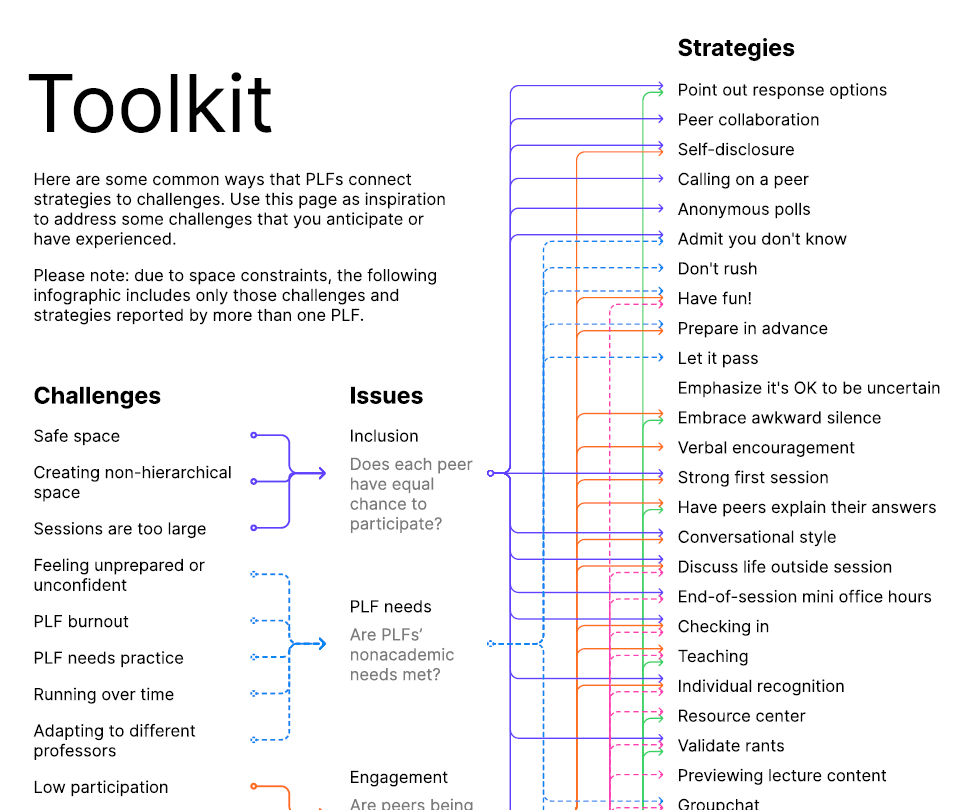
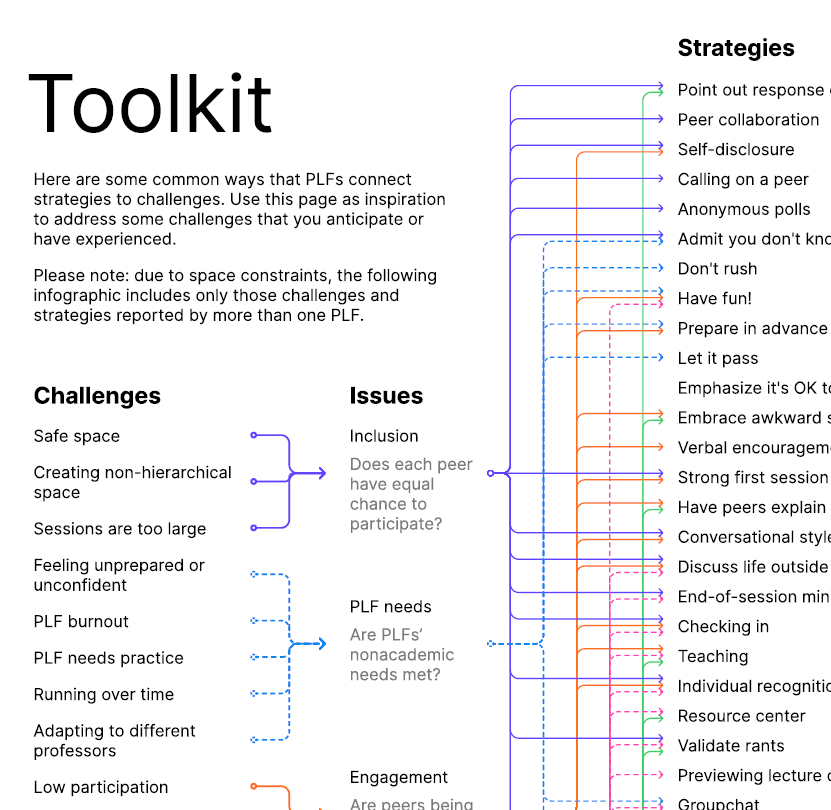
format fixes for mobile

diff --git a/resources/css/index.css b/resources/css/index.css
@@ -88,8 +88,12 @@ section {
     font-family: "Readex Pro", sans-serif;
 }
 
+.spaced.color {
+    padding-bottom: .5em;
+}
+
 .left h3, .left p {
-    font-size: 18px !important;
+    font-size: 18px;
 }
 
 .color {
@@ -335,7 +339,7 @@ button:hover, button:active, button:focus {
     width: 100%;
     clear: both;
     padding: 1.5em 0;
-    margin: 1em 0;
+    margin-top: 1em;
     overflow: auto;
     border-radius: 5px;
     background-color: #FFFFFF;
@@ -462,6 +466,14 @@ footer p {
         width: 95%;
     }
 
+    .wide h2 {
+        margin-left: .75em;
+    }
+
+    .left {
+        line-height: 16px;
+    }
+
     #title a, #title {
         font-size: 20px;
         margin: 0.8em;
@@ -496,8 +508,8 @@ footer p {
         height: 3em;
     }
     
-    h3 {
-        font-size: 20px;
+    h3, .left h3, .left p {
+        font-size: 16px !important;
     }
 
     footer {
